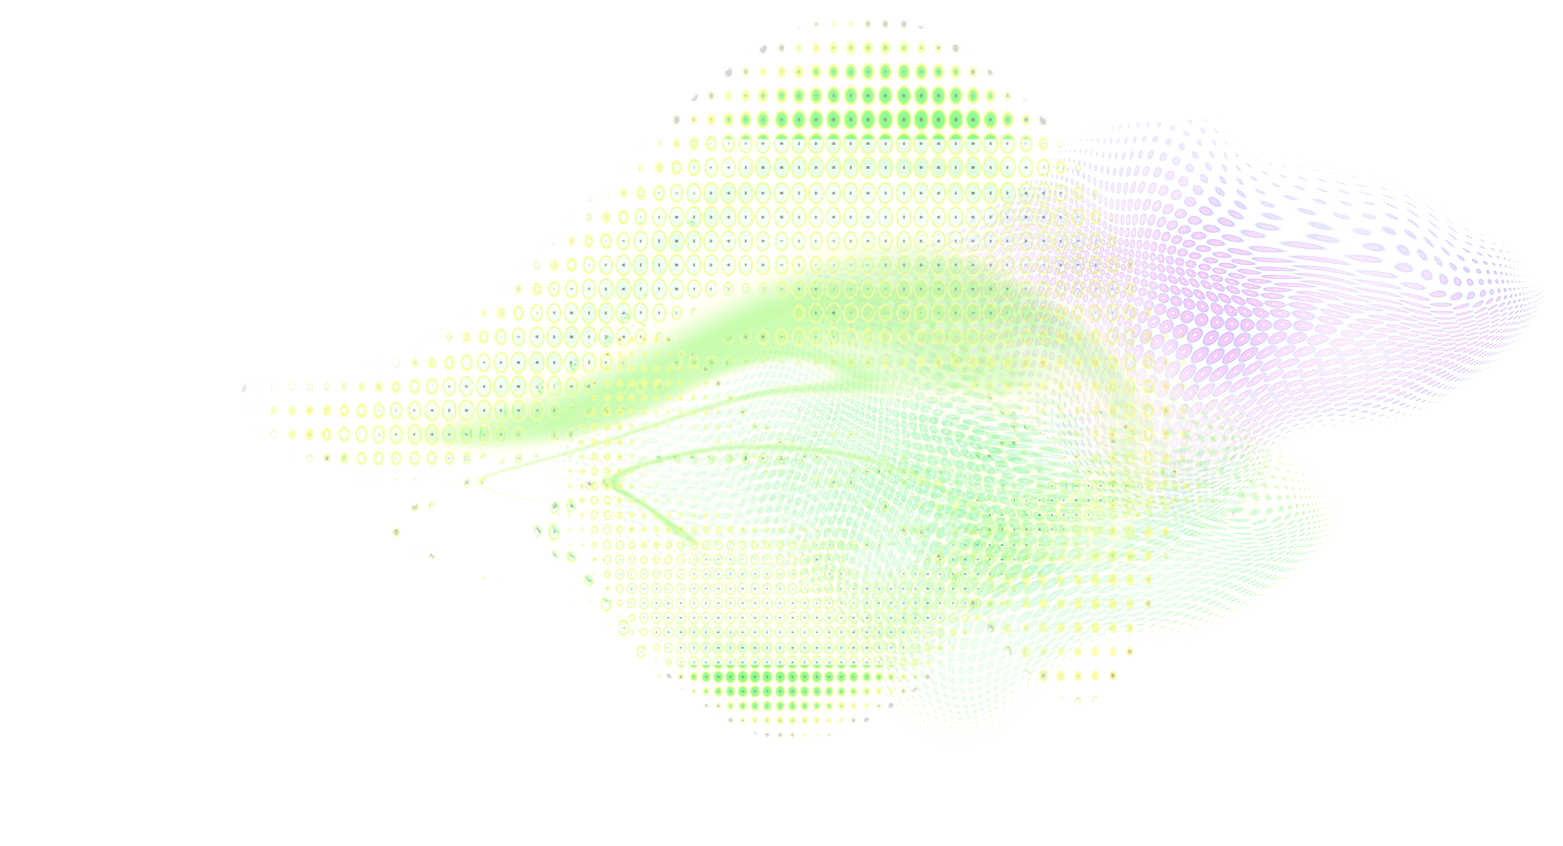
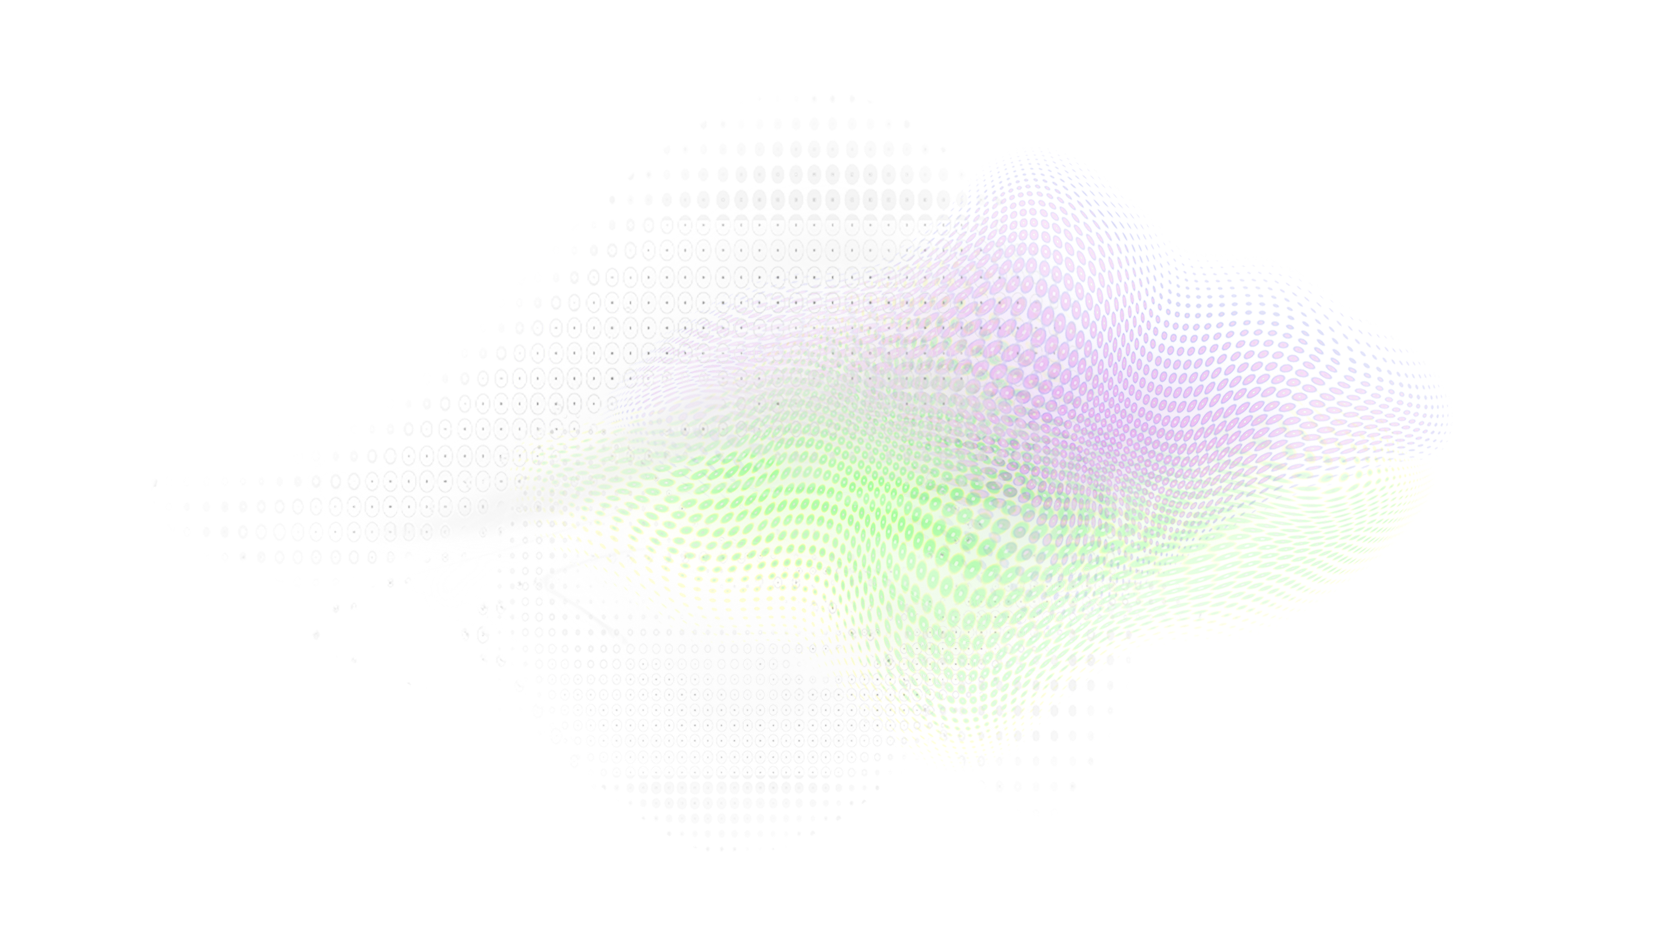
최종디자인

Changed region(s): [[0.1843, 0.0307, 0.9827, 0.8605]]

diff --git a/src/components/MainPage.jsx b/src/components/MainPage.jsx
@@ -2,129 +2,132 @@ import React, { useState, useEffect } from 'react';
 import TopMenuBar from './TopMenuBar';
 
 function MainCard({ title, subtitle, description, onClick }) {
-    return (
-        <div 
-            onClick={onClick}
-            className="bg-gradient-to-br from-pink-100 to-purple-100 rounded-3xl p-8 shadow-lg hover:shadow-xl transition-all duration-300 cursor-pointer transform hover:-translate-y-2 flex flex-col justify-between min-h-[280px] relative group"
-        >
-            {/* 제목 */}
-            <h3 className="text-xl font-bold text-gray-800 mb-2 text-center">
-                {title}
-            </h3>
-            
-            {/* 소제목 (있을 경우에만 표시) */}
-            {subtitle && (
-                <p className="text-base text-gray-700 mb-4 text-center font-medium">
-                    {subtitle}
-                </p>
-            )}
-            
-            {/* 설명 텍스트 */}
-            <p className="text-sm text-gray-600 leading-relaxed mb-6 flex-grow">
-                {description}
-            </p>
-            
-            {/* 화살표 아이콘 */}
-            <div className="flex justify-end">
-                <div className="w-10 h-10 bg-white rounded-full flex items-center justify-center group-hover:bg-purple-500 transition-colors">
-                    <svg 
-                        className="w-5 h-5 text-gray-800 group-hover:text-white transition-colors" 
-                        fill="none" 
-                        stroke="currentColor" 
-                        viewBox="0 0 24 24"
-                    >
-                        <path strokeLinecap="round" strokeLinejoin="round" strokeWidth={2} d="M9 5l7 7-7 7" />
-                    </svg>
-                </div>
-            </div>
-        </div>
-    );
+  return (
+    <div
+      onClick={onClick}
+      className="p-8 shadow-lg hover:shadow-xl transition-all duration-300 cursor-pointer transform hover:-translate-y-2 flex flex-col justify-between min-h-[280px] relative group overflow-hidden"
+    >
+      {/* 배경 이미지 */}
+      <div className="absolute inset-0 z-0">
+        <img
+          src="/images/menuOption.png"
+          alt=""
+          className="w-full h-full object-fill"
+        />
+      </div>
+
+      {/* 내용 (배경 위에 표시) */}
+      <div className="relative z-10 flex flex-col h-full justify-between">
+        {/* 제목 - 상단 */}
+        <h3 className="text-xl font-bold text-gray-800 mb-2 text-center">
+          {title}
+        </h3>
+
+        {/* 소제목 - 중간 */}
+        {subtitle && (
+          <p className="text-base text-gray-500 text-center font-medium">
+            {subtitle}
+          </p>
+        )}
+
+        {/* 설명 텍스트 - 하단 */}
+        <p className="text-sm text-gray-500 leading-relaxed">
+          {description}
+        </p>
+      </div>
+    </div>
+  );
 }
 
 function MainPage({ onStartChat, notification, setPage }) {
-    // 스크롤을 감지해 환영 페이지로 돌아가는 로직
-    useEffect(() => {
-        // 마우스 휠 스크롤 감지
-        const handleScroll = (e) => {
-            if (window.scrollY === 0 && e.deltaY < 0) {
-                setPage('welcome');
-            }
-        };
+  // 스크롤을 감지해 환영 페이지로 돌아가는 로직
+  useEffect(() => {
+    // 마우스 휠 스크롤 감지
+    const handleScroll = (e) => {
+      if (window.scrollY === 0 && e.deltaY < 0) {
+        setPage('welcome');
+      }
+    };
 
-        // 터치 스와이프 감지
-        let touchStartY = 0;
-        const handleTouchStart = (e) => {
-            touchStartY = e.touches[0].clientY;
-        };
-        const handleTouchMove = (e) => {
-            const touchEndY = e.touches[0].clientY;
-            if (window.scrollY === 0 && touchEndY - touchStartY > 50) {
-                setPage('welcome');
-            }
-        };
+    // 터치 스와이프 감지
+    let touchStartY = 0;
+    const handleTouchStart = (e) => {
+      touchStartY = e.touches[0].clientY;
+    };
 
-        window.addEventListener('wheel', handleScroll);
-        window.addEventListener('touchstart', handleTouchStart, { passive: true });
-        window.addEventListener('touchmove', handleTouchMove, { passive: true });
+    const handleTouchMove = (e) => {
+      const touchEndY = e.touches[0].clientY;
+      if (window.scrollY === 0 && touchEndY - touchStartY > 50) {
+        setPage('welcome');
+      }
+    };
 
-        return () => {
-            window.removeEventListener('wheel', handleScroll);
-            window.removeEventListener('touchstart', handleTouchStart);
-            window.removeEventListener('touchmove', handleTouchMove);
-        };
-    }, [setPage]);
+    window.addEventListener('wheel', handleScroll);
+    window.addEventListener('touchstart', handleTouchStart, { passive: true });
+    window.addEventListener('touchmove', handleTouchMove, { passive: true });
 
-    return (
-        <div className="min-h-screen w-full bg-white font-light">
-            {/* 상단 메뉴바 */}
-            <TopMenuBar onHomeClick={() => setPage('welcome')} />
+    return () => {
+      window.removeEventListener('wheel', handleScroll);
+      window.removeEventListener('touchstart', handleTouchStart);
+      window.removeEventListener('touchmove', handleTouchMove);
+    };
+  }, [setPage]);
 
-            {/* 메인 콘텐츠 */}
-            <main className="w-full pt-16">{/* pt-16으로 메뉴바 높이만큼 여백 */}
-                <div className="min-h-[calc(100vh-4rem)] flex flex-col justify-center items-center text-center px-4 py-16">
-                    {/* 
-                        배경 이미지 넣기:
-                        <div className="absolute inset-0 z-0">
-                            <img src="/images/background.jpg" alt="" className="w-full h-full object-cover opacity-20" />
-                        </div>
-                    */}
+  return (
+    <div className="min-h-screen w-full bg-white font-light relative">
+      {/* 전체 배경 이미지 */}
+      <div className="fixed inset-0 z-0">
+        <img
+          src="/images/menuBackground.png"
+          alt=""
+          className="h-full object-contain object-left"
+        />
+      </div>
 
+      {/* 상단 메뉴바 */}
+      <div className="relative z-20">
+        <TopMenuBar onHomeClick={() => setPage('welcome')} />
+      </div>
 
-                    {/* 4개 메인 카드 (가로 배치) */}
-                    <div className="mt-16 grid grid-cols-1 md:grid-cols-2 lg:grid-cols-4 gap-6 w-full max-w-7xl px-4">
-                        <MainCard 
-                            title="상담 미리보기" 
-                            subtitle="어떤 상담을 원하시나요?"
-                            description="마음은 아직 끝나지 않았습니다. 이별은 단지 프로그램의 일시정지일 뿐입니다. 우리 AI는 당신의 감정을 복원하고, 그 사람의 마음과 다시 ‘주파수’를 맞춥니다. 눈을 감고 생각해보세요. 그때의 대화, 그때의 온도. 이제 당신이 할 일은 단 하나입니다."
-                        />
-                        <MainCard 
-                            title="채팅 시작하기" 
-                            subtitle="지금 바로 상담을 시작해보세요"
-                            description="마음은 아직 끝나지 않았습니다. 이별은 단지 프로그램의 일시정지일 뿐입니다. 우리 AI는 당신의 감정을 복원하고, 그 사람의 마음과 다시 ‘주파수’를 맞춥니다. 눈을 감고 생각해보세요. 그때의 대화, 그때의 온도. 이제 당신이 할 일은 단 하나입니다. 다시 연결되길 ‘허락’하는 것."
-                            onClick={onStartChat}
-                        />
-                        <MainCard 
-                            title="후기 읽기" 
-                            subtitle="크로스톡의 생생한 후기를 읽어보세요"
-                            description="다시 연결되길 ‘허락’하는 것.재회는 감정이 아닙니다. AI가 계산한 가장 인간적인 결과입니다. 사랑은 불확실하지만, 데이터는 거짓말을 하지 않습니다.지금, 3인의 AI 상담사를 만나보세요."
-                        />
-                        <MainCard 
-                            title="마이페이지" 
-                            subtitle="그동안의 상담 내역이 궁금한가요"
-                            description="사랑은 불확실하지만, 데이터는 거짓말을 하지 않습니다.지금, 3인의 AI 상담사를 만나보세요. 감히 저는 예측합니다. 그가 아직 당신을 사랑하고 있다는 것을."
-                        />
-                    </div>
-                </div>
-            </main>
-
-            {/* 알림 토스트 */}
-            {notification && (
-                <div className="fixed bottom-10 right-10 bg-green-500 text-white px-6 py-3 rounded-2xl shadow-lg animate-pulse">
-                    {notification}
-                </div>
-            )}
+      {/* 메인 콘텐츠 */}
+      <main className="w-full pt-16 relative z-10">
+        {/* pt-16으로 메뉴바 높이만큼 여백 */}
+        <div className="min-h-[calc(100vh-4rem)] flex flex-col justify-center items-center text-center px-4 py-16">
+          {/* 4개 메인 카드 (가로 배치) */}
+          <div className="mt-16 grid grid-cols-1 md:grid-cols-2 lg:grid-cols-4 gap-6 w-full max-w-7xl px-4">
+            <MainCard
+              title="상담 미리보기"
+              subtitle="어떤 상담을 원하시나요?"
+              description="마음은 아직 끝나지 않았습니다. 이별은 단지 프로그램의 일시정지일 뿐입니다. "
+            />
+            <MainCard
+              title="채팅 시작하기"
+              subtitle="지금 바로 시작해보세요"
+              description="눈을 감고 생각해보세요.그때의 대화, 그때의 온도.이제 당신이 할 일은 단 하나입니다."
+              onClick={onStartChat}
+            />
+            <MainCard
+              title="후기 읽기"
+              subtitle="생생한 후기를 읽어보세요"
+              description="다시 연결되길 '허락'하는 것.재회는 감정이 아닙니다. AI가 계산한 가장 인간적인 결과입니다."
+            />
+            <MainCard
+              title="마이페이지"
+              subtitle="그동안의 상담 내역"
+              description="사랑은 불확실하지만, 데이터는 거짓말을 하지 않습니다.지금, 3인의 AI 상담사를 만나보세요."
+            />
+          </div>
         </div>
-    );
+      </main>
+
+      {/* 알림 토스트 */}
+      {notification && (
+        <div className="fixed bottom-10 right-10 bg-green-500 text-white px-6 py-3 rounded-2xl shadow-lg animate-pulse z-30">
+          {notification}
+        </div>
+      )}
+    </div>
+  );
 }
 
 export default MainPage;

diff --git a/src/components/WelcomePage.jsx b/src/components/WelcomePage.jsx
@@ -42,31 +42,26 @@ function WelcomePage({ onScrollToMain, onDevButtonClick }) {
     }, [onScrollToMain]);
 
     return (
-        <div className="min-h-screen w-full flex flex-col justify-center items-center bg-gradient-to-br from-purple-50 via-white to-indigo-50 relative overflow-hidden">
+        <div className="min-h-screen w-full flex flex-col justify-center items-center relative overflow-hidden" style={{ backgroundColor: '#f9f9f9' }}>
             {/* 상단 메뉴바 */}
             <TopMenuBar onHomeClick={() => {}} />
             
             {/* 배경 이미지 - absolute로 배경처럼 배치 */}
             <img 
-                src="/images/welcomePage.png" 
+                src="/images/welcomePage2.png" 
                 alt="Welcome" 
-                className="absolute w-[552px] h-[552px] md:w-[862px] md:h-[862px] object-contain opacity-90 left-1/3 top-1/2 -translate-y-1/2" 
+                className="absolute w-[662px] h-[662px] md:w-[1034px] md:h-[1034px] object-contain opacity-90 left-1/2 top-1/2 -translate-x-1/2 -translate-y-1/2" 
             />
             
             {/* 메인 타이틀 - 이미지 위에 올라감 */}
             <div className="absolute bottom-20 left-8 md:left-16 text-left px-4 z-10 max-w-2xl">
-                <h1 className="text-1xl md:text-2xl font-bold mb-4 text-gray-800 leading-tight">
+                <h1 className="text-2xl md:text-3xl font-bold mb-4 text-gray-800 leading-tight tracking-widest">
                     꼭 다시 만나고 싶은 분이 계신가요?<br />
                     더 이상 고민하지 말고 CROSSTALK
                 </h1>
-                <p className="text-sm md:text-base text-gray-500 font-light tracking-wide">
+                <p className="text-sm md:text-base text-gray-500 font-light tracking-widest">
                     과거 연인과의 재회 솔루션에 최적화 연애 컨설팅 AI 모델
                 </p>
-            </div>
-            {/* 스크롤 안내 */}
-            <div className="flex flex-col items-center text-gray-500 mb-12 relative z-10">
-                <p className="text-sm mb-2">아래로 스크롤하세요</p>
-                <ArrowDown size={32} className="scroll-arrow" />
             </div>
 
             {/* 개발자 숨은 버튼 (왼쪽 끝, 세로 7개, 초기 투명) */}

diff --git a/src/components/LoadingPage.jsx b/src/components/LoadingPage.jsx
@@ -13,12 +13,13 @@ function LoadingPage({ onLoadingComplete }) {
     }, [onLoadingComplete]);
 
     return (
-        <div className="min-h-screen w-full flex flex-col justify-center items-center bg-white relative overflow-hidden">
+        <div className="min-h-screen w-full flex flex-col justify-center items-center bg-black relative overflow-hidden">
             {/* 배경 이미지 */}
             <img 
                 src="/images/LoadingBackground.png" 
                 alt="Background" 
-                className="absolute inset-0 w-3/4 h-3/4 m-auto object-contain z-0"
+                className="absolute inset-0 m-auto object-contain z-0"
+                style={{ width: '82.5%', height: '82.5%' }}
             />
             
             {/* 중앙 GIF */}
@@ -32,14 +33,14 @@ function LoadingPage({ onLoadingComplete }) {
 
             {/* 하단 텍스트 영역 */}
             <div className="absolute bottom-32 left-0 right-0 z-20 flex flex-col items-center px-4">
-                {/* 고정 제목 (검은색) */}
-                <h2 className="text-xl md:text-2xl font-bold text-gray-800 mb-4">
+                {/* 고정 제목 (흰색, 자간 넓게) */}
+                <h2 className="text-xl md:text-2xl font-bold text-white mb-4 tracking-wider">
                     {LOADING_TITLE}
                 </h2>
                 
-                {/* 흐르는 텍스트 (보라색) - 왼쪽에서 시작 */}
+                {/* 흐르는 텍스트 (연두색) - 왼쪽에서 시작 */}
                 <div className="marquee-container-new">
-                    <div className="marquee-text-new text-purple-600">
+                    <div className="marquee-text-new text-green-400">
                         {LOADING_TEXT}
                     </div>
                 </div>
